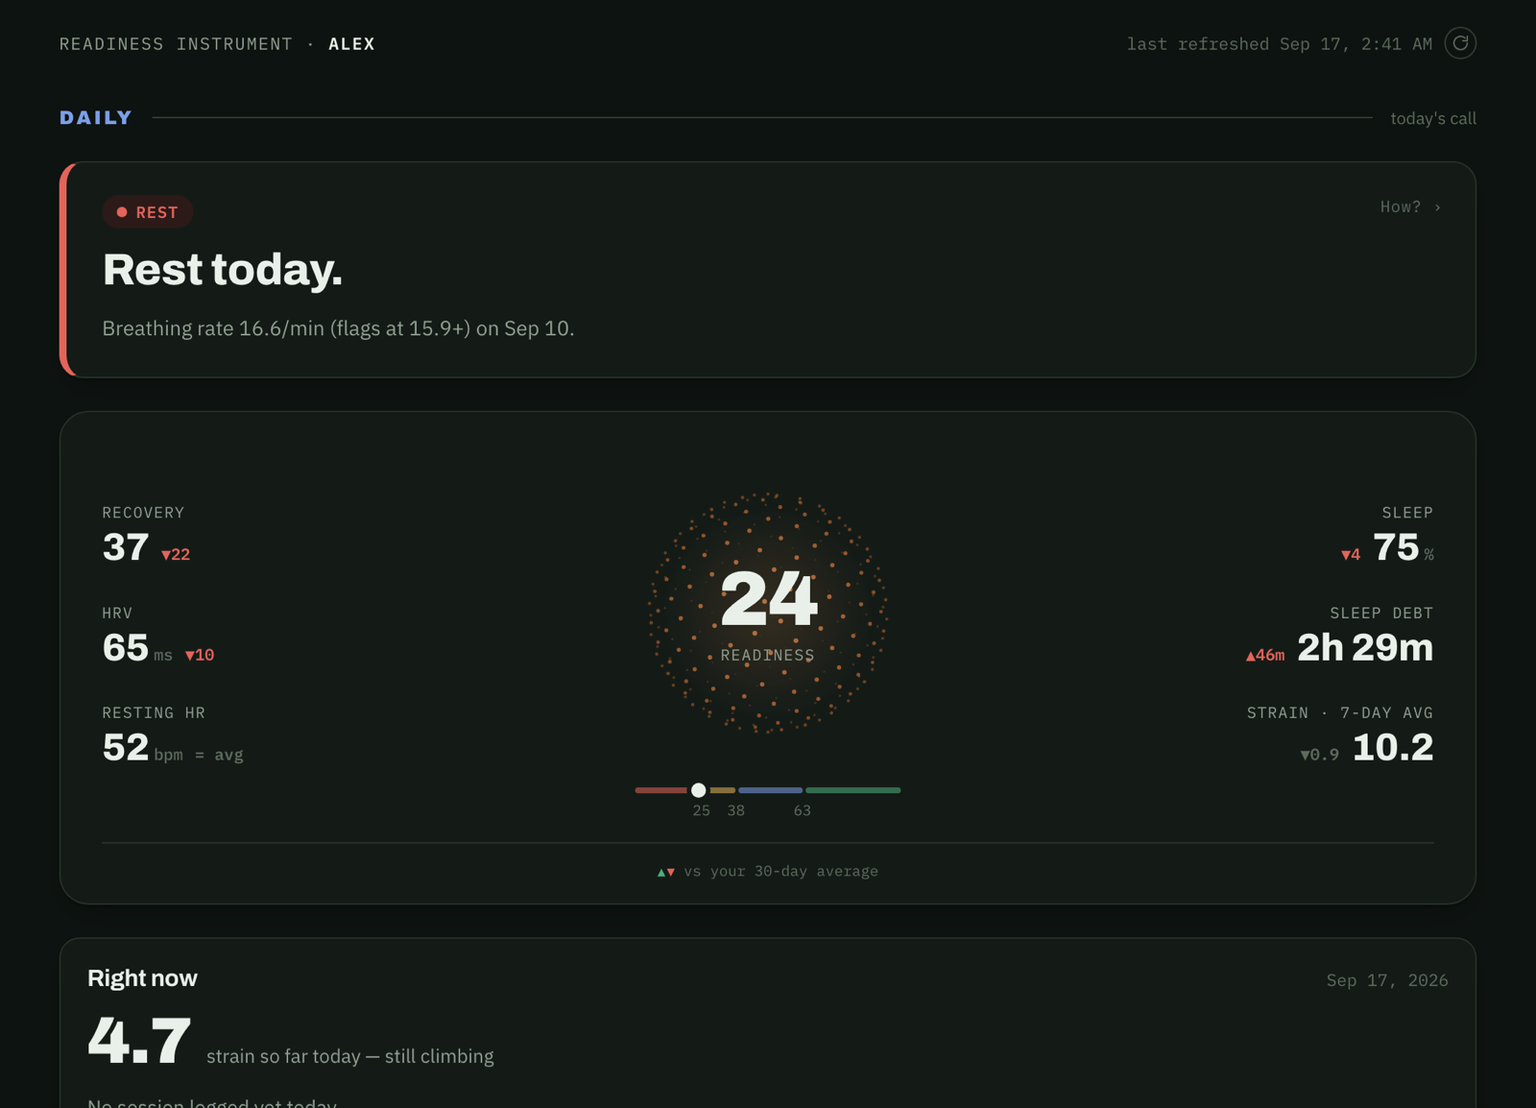
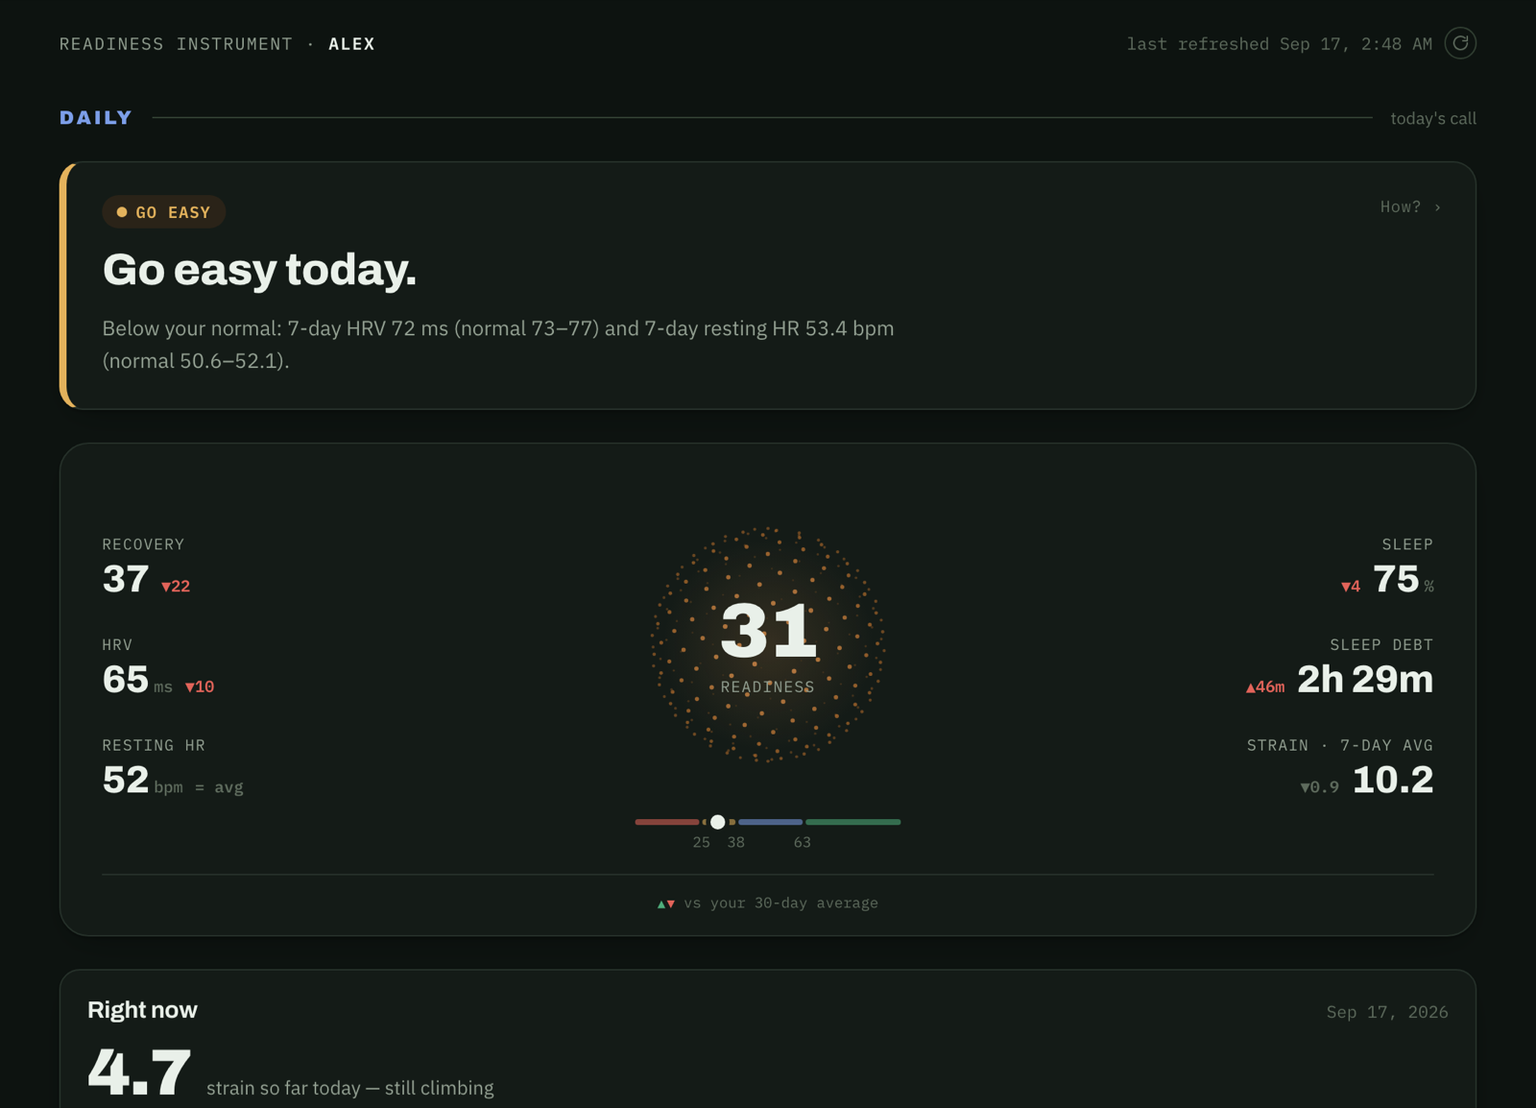
Only lower readiness for confirmed warning signs, graded by severity
One breathing-rate night sitting exactly on the 1.5 SD line dropped
readiness from 43 to 24 and would have held it there for 14 days.

- build_warning: a warning counts only if the same vital is past its line
  on 2 of the last 3 nights, or 2+ vitals are past it on the same night,
  and it's still out last night
- Graded cap: just over the line → at most 37, 1 SD further or more →
  at most 24
- One-off nights show as "Watching" in the readiness panel and the fatigue
  card, without lowering readiness; tips and sport suggestions follow the
  confirmed rule too
- 7 new tests (tests/test_warning.py); README, chat prompt, CLAUDE.md, and
  overview screenshot updated

diff --git a/dashboard_template.html b/dashboard_template.html
@@ -677,14 +677,15 @@ function percentile(vals, p){
 //   1. Body trend (build_readiness in build_dashboard.py): 7-day HRV and resting HR and
 //      3-night sleep vs your own last 60 days, equal weights, 50 = normal. Until ~5 weeks
 //      of data exist, WHOOP recovery stands in.
-//   2. Lowered (never raised) by today's context: a warning sign — HRV, resting HR or
-//      breathing rate outside normal in the last 14 days — caps it at 24; having already
-//      trained hard today, or 7+ days without rest + an unusually hard week + load ratio
-//      above 1.3 together, caps it at 37.
+//   2. Lowered (never raised) by today's context: a *confirmed* warning sign (build_warning:
+//      same vital out of range on 2 of the last 3 nights, or 2+ vitals out together, and
+//      still out last night) caps it between 37 and 24 depending on how far out it is;
+//      having already trained hard today, or 7+ days without rest + an unusually hard
+//      week + load ratio above 1.3 together, caps it at 37. A one-off night is only watched.
 //   3. Answer from the final number: 63+ Push (≥ +½ SD) · 38–62 Train · 25–37 Go easy
 //      (below −½ SD) · under 25 Rest (below −1 SD).
 const READY_BANDS = { push: 63, train: 38, easy: 25 };
-const READY_CAPS = { warning: 24, context: 37 };
+const READY_CAPS = { context: 37 };   // warning caps (37→24, graded) come from DATA.warning
 const ACTIONS = {
   push:  {label:'Push',    c:'var(--good)',     bg:'var(--good-bg)',     headline:'Ready to push.'},
   train: {label:'Train',   c:'var(--accent)',   bg:'var(--accent-soft)', headline:'Ready to train.'},
@@ -707,17 +708,17 @@ function computeReadiness(){
   const restOverdue = !!(rest && rest.days_since >= 7);
   const acwrElevated = acwrZoneLabel === 'Caution' || acwrZoneLabel === 'High risk';
   const overloadCombo = restOverdue && monotonyHighFlag && acwrElevated;
-  const fatigueFlagged = DATA.anomalies_recent.length > 0;
+  const W = DATA.warning;
+  const fatigueFlagged = !!(W && W.confirmed);
+  const sigText = x => `${x.name.charAt(0).toLowerCase() + x.name.slice(1)} ${x.value}${x.unit === 'ms' || x.unit === 'bpm' ? ' ' : ''}${x.unit} (flags at ${x.limit}${x.direction === 'low' ? ' or lower' : '+'})`;
+  const warnWhen = W ? (W.date === todayLocalISO() ? 'last night' : `on ${new Date(W.date+'T00:00:00').toLocaleDateString(undefined,{month:'short',day:'numeric'})}`) : '';
+  const watch = W && !W.confirmed ? W.signals : [];
 
   const caps = [];
   if(fatigueFlagged){
-    // name the actual signal(s) from the most recent flag, in plain units
-    const f = DATA.anomalies_recent[DATA.anomalies_recent.length-1], bits = [], has = f.hrv_low != null;
-    if(f.z_hrv <= -1.5) bits.push(`HRV ${Math.round(f.hrv)} ms${has ? ` (flags at ${f.hrv_low} or lower)` : ''}`);
-    if(f.z_rhr >= 1.5) bits.push(`resting HR ${Math.round(f.rhr)} bpm${has ? ` (flags at ${f.rhr_high}+)` : ''}`);
-    if(f.z_rr >= 1.5) bits.push(`breathing rate ${fmt1(f.rr)}/min${has ? ` (flags at ${fmt1(f.rr_high)}+)` : ''}`);
-    const when = f.date === todayLocalISO() ? 'last night' : `on ${new Date(f.date+'T00:00:00').toLocaleDateString(undefined,{month:'short',day:'numeric'})}`;
-    caps.push({key:'warning', max:READY_CAPS.warning, text:`${bits.join(' and ') || 'a vital sign out of range'} ${when}`});
+    const parts = W.signals.map(x => sigText(x) + (W.reason === 'repeated' && W.nights_out[x.name] >= 2 ? ` on ${W.nights_out[x.name]} of the last ${W.nights_checked} nights` : ''));
+    const joined = parts.join(' and ') + (W.reason === 'multiple' ? ` ${warnWhen}` : '');
+    caps.push({key:'warning', max:W.cap, text:joined});
   }
   if(alreadyTrainedHard) caps.push({key:'trained', max:READY_CAPS.context, text:`today's strain (${fmt1(snap.strain_so_far)}) is already above your 7-day average (${fmt1(DATA.avg7_strain)})`});
   if(overloadCombo) caps.push({key:'overload', max:READY_CAPS.context, text:`${rest.days_since} days without rest, an unusually hard week and load ratio above 1.3×`});
@@ -726,7 +727,7 @@ function computeReadiness(){
   const lowering = caps.filter(c => c.max < base);           // only caps that actually changed the number
 
   return { readiness, base, action: actionFor(readiness), caps, lowering, fallback: !R, strainRatio,
-           snap, snapIsToday, alreadyTrainedHard, rest, overloadCombo, fatigueFlagged };
+           snap, snapIsToday, alreadyTrainedHard, rest, overloadCombo, fatigueFlagged, watch, warnWhen, sigText };
 }
 
 function decisionWhy(calc){
@@ -784,7 +785,7 @@ function renderDecision(){
 function renderSuggestions(state, calc, alreadyTrainedHard, overloadCombo, rest){
   const sports = DATA.sport_recovery_cost.sports; // sorted ascending by delta (most costly first)
   const sEl = $('sportSuggestSignal'), sTxt = $('sportSuggestText');
-  const fatigueFlagged = DATA.anomalies_recent.length > 0;
+  const fatigueFlagged = !!(DATA.warning && DATA.warning.confirmed);
 
   if(alreadyTrainedHard && overloadCombo){
     sEl.className = 'signal warn';
@@ -821,7 +822,7 @@ function renderSuggestions(state, calc, alreadyTrainedHard, overloadCombo, rest)
   if(!overloadCombo && calc.strainRatio > 1.15) tips.push(alreadyTrainedHard
     ? `Keep tomorrow light — you've trained harder than usual this week.`
     : `You're training harder than usual this week — favor technique or mobility over volume.`);
-  if(DATA.anomalies_recent.length) tips.push(`Body signals are outside your normal range — prioritize sleep tonight.`);
+  if(DATA.warning && DATA.warning.confirmed) tips.push(`Body signals are outside your normal range — prioritize sleep tonight.`);
   if(!overloadCombo && monotonyHighFlag) tips.push(`This week's load has been unusually concentrated with few easy days — build one in soon.`);
   if(tips.length === 0) tips.push(overloadCombo ? `Prioritize sleep tonight.` : `Nothing unusual in your numbers today — a normal week, stick to your plan.`);
   const tEl = $('tipsSignal'), tTxt = $('tipsText');
@@ -1312,7 +1313,9 @@ function renderTodaySignals(){
     aEl.className = 'signal ok';
     aTxt.innerHTML = `<b>No fatigue signal.</b> HRV, resting HR and breathing rate all stayed in your normal range for the last 14 days.`;
   } else {
-    aEl.className = 'signal warn';
+    const W = DATA.warning;
+    const confirmed = !!(W && W.confirmed);
+    aEl.className = confirmed ? 'signal warn' : 'signal';
     const f = flags[flags.length-1];
     const has = f.hrv_low != null;
     const parts = [];
@@ -1320,7 +1323,9 @@ function renderTodaySignals(){
     if(f.z_rhr >= 1.5) parts.push(`resting HR <b>${Math.round(f.rhr)} bpm</b>${has?` (flags at ${f.rhr_high}+)`:''}`);
     if(f.z_rr >= 1.5) parts.push(`breathing rate <b>${fmt1(f.rr)} /min</b>${has?` (flags at ${fmt1(f.rr_high)}+)`:''}`);
     const when = f.date === todayLocalISO() ? 'today' : 'on ' + fmtDate(f.date);
-    aTxt.innerHTML = `<b>Possible fatigue signal ${when}:</b> ${parts.join(', ')}. Limits come from your last 30 nights.`;
+    aTxt.innerHTML = confirmed
+      ? `<b>Fatigue signal ${when}:</b> ${parts.join(', ')}. Confirmed over several nights, so readiness is lowered.`
+      : `<b>Watching ${when}:</b> ${parts.join(', ')}. A single night — it lowers readiness only if it repeats.`;
   }
 
   const sEl = $('sportCostSignal'), sTxt = $('sportCostText');
@@ -1698,14 +1703,13 @@ window.addEventListener('resize', ()=>{ renderExplorer(); renderStageChart(); re
 
     if(calc.lowering.length){
       out.push(section('Lowered today', ''));
-      const f = DATA.anomalies_recent.length ? DATA.anomalies_recent[DATA.anomalies_recent.length-1] : null;
       for(const cap of calc.lowering){
-        if(cap.key === 'warning' && f){
-          const when = f.date === todayLocalISO() ? '' : ` · ${new Date(f.date+'T00:00:00').toLocaleDateString(undefined,{month:'short',day:'numeric'})}`;
-          const has = f.hrv_low != null;
-          if(f.z_hrv <= -1.5) out.push(row(`HRV${when}`, `${Math.round(f.hrv)} ms`, has ? `≤${f.hrv_low}` : 'low', 'flagged'));
-          if(f.z_rhr >= 1.5) out.push(row(`Resting HR${when}`, `${Math.round(f.rhr)} bpm`, has ? `${f.rhr_high}+` : 'high', 'flagged'));
-          if(f.z_rr >= 1.5) out.push(row(`Breathing rate${when}`, `${fmt1(f.rr)}/min`, has ? `${fmt1(f.rr_high)}+` : 'high', 'flagged'));
+        if(cap.key === 'warning'){
+          const W = DATA.warning;
+          for(const x of W.signals){
+            const label = W.reason === 'repeated' ? `${x.name} · ${W.nights_out[x.name]} of ${W.nights_checked} nights` : `${x.name} · ${calc.warnWhen.replace(/^on /,'')}`;
+            out.push(row(label, `${x.value}${x.unit}`, `${x.limit}${x.direction === 'low' ? ' or less' : '+'}`, 'flagged'));
+          }
           out.push(row('Readiness at most', `${cap.max}`, '', 'current'));
         } else if(cap.key === 'trained'){
           out.push(row('Strain today', fmt1(calc.snap.strain_so_far), `avg ${fmt1(DATA.avg7_strain)}`, 'flagged'));
@@ -1720,13 +1724,19 @@ window.addEventListener('resize', ()=>{ renderExplorer(); renderStageChart(); re
       }
     }
 
+    if(calc.watch.length){
+      out.push(section('Watching', ''));
+      for(const x of calc.watch) out.push(row(`${x.name} · ${calc.warnWhen.replace(/^on /,'')}`, `${x.value}${x.unit}`, `${x.limit}${x.direction === 'low' ? ' or less' : '+'}`, ''));
+      out.push(`<div class="rp-note" style="margin-top:4px">Lowers readiness only if it repeats or another signal joins it.</div>`);
+    }
+
     out.push(section("Today's answer", ''));
     const b = READY_BANDS, cur = calc.action;
     out.push(row('Push', `${b.push}+`, '', cur === 'push' ? 'current' : ''));
     out.push(row('Train', `${b.train}–${b.push - 1}`, '', cur === 'train' ? 'current' : ''));
     out.push(row('Go easy', `${b.easy}–${b.train - 1}`, '', cur === 'easy' ? 'current' : ''));
     out.push(row('Rest', `under ${b.easy}`, '', cur === 'rest' ? 'current' : ''));
-    out.push(`<div class="rp-note">A warning sign caps readiness at ${READY_CAPS.warning}; a hard session today or an overload week caps it at ${READY_CAPS.context}.</div>`);
+    out.push(`<div class="rp-note">A confirmed warning sign caps readiness at 37 to 24 depending on how far out it is; a hard session today or an overload week caps it at ${READY_CAPS.context}.</div>`);
     $('rpRows').innerHTML = out.join('');
   }
 

diff --git a/build_dashboard.py b/build_dashboard.py
@@ -165,6 +165,80 @@ def build_anomalies(hrv_by_day, rhr_by_day, rr_by_day):
     return flags
 
 
+# ---- Warning signs (confirmed + graded) -----------------------------------------------
+# A single night brushing the 1.5 SD line is common noise. A warning only lowers readiness
+# when it's confirmed — the same signal out of range on 2 of the last 3 nights, or 2+
+# signals out on the same night — and the most recent night is still out (once nights are
+# back to normal it stops counting). Multi-night persistence mirrors how wearable illness
+# detection works (Miller et al. 2020 used night-to-night respiratory-rate changes).
+# The cap is graded by how far past the line it is: just over → at most 37 (Go easy),
+# 1 SD further or more (2.5 SD from normal) → at most 24 (Rest). Unconfirmed = "watch".
+WARN_LINE = 1.5
+WARN_NIGHTS = 3
+WARN_CAP_MILD, WARN_CAP_SEVERE = 37, 24
+
+
+def _night_signals(hrv_by_day, rhr_by_day, rr_by_day, d, history_days):
+    """Each vital for night d vs the 30 nights before it, as plain units + SD distance."""
+    i = history_days.index(d)
+    if i < 30:
+        return None
+    window = history_days[i - 30:i]
+    out = []
+    for name, by_day, direction, unit, digits in (
+            ('HRV', hrv_by_day, -1, 'ms', 0), ('Resting HR', rhr_by_day, 1, 'bpm', 0),
+            ('Breathing rate', rr_by_day, 1, '/min', 1)):
+        hist = [by_day[w] for w in window]
+        m, sd = mean(hist), pstdev(hist)
+        if sd == 0:
+            continue
+        z = direction * (by_day[d] - m) / sd            # positive = worse
+        limit = m + direction * WARN_LINE * sd
+        out.append({'name': name, 'value': round(by_day[d], digits) if digits else round(by_day[d]),
+                    'limit': round(limit, digits) if digits else round(limit), 'unit': unit,
+                    'direction': 'low' if direction < 0 else 'high',
+                    'sd_past_line': round(z - WARN_LINE, 2), 'out': z >= WARN_LINE})
+    return out
+
+
+def build_warning(hrv_by_day, rhr_by_day, rr_by_day):
+    days = sorted(set(hrv_by_day) & set(rhr_by_day) & set(rr_by_day))
+    if len(days) < 31:
+        return None
+    from datetime import date as _date
+    latest = days[-1]
+    recent = [d for d in days[-WARN_NIGHTS:]
+              if (_date.fromisoformat(latest) - _date.fromisoformat(d)).days < WARN_NIGHTS]
+    nights = []
+    for d in recent:
+        sig = _night_signals(hrv_by_day, rhr_by_day, rr_by_day, d, days)
+        if sig is not None:
+            nights.append({'date': d, 'signals': sig})
+    if not nights or nights[-1]['date'] != latest:
+        return None
+    last = nights[-1]['signals']
+    out_last = [x for x in last if x['out']]
+    repeated = [x for x in out_last
+                if sum(1 for n in nights for y in n['signals'] if y['name'] == x['name'] and y['out']) >= 2]
+    multiple = len(out_last) >= 2
+    confirmed = bool(out_last) and (bool(repeated) or multiple)
+    cap = None
+    if confirmed:
+        drivers = out_last if multiple else repeated
+        severity = min(1.0, max(x['sd_past_line'] for x in drivers))      # 0 at the line → 1 at +1 SD
+        cap = round(WARN_CAP_MILD - (WARN_CAP_MILD - WARN_CAP_SEVERE) * severity)
+    return {
+        'date': latest,
+        'confirmed': confirmed,
+        'reason': ('multiple' if multiple else 'repeated') if confirmed else None,
+        'cap': cap,
+        'signals': out_last,                                                 # out of range on the latest night
+        'nights_out': {x['name']: sum(1 for n in nights for y in n['signals'] if y['name'] == x['name'] and y['out'])
+                       for x in out_last},
+        'nights_checked': len(nights),
+    }
+
+
 # ---- Readiness -------------------------------------------------------------------
 # Method, from HRV-guided training research (Javaloyes et al. 2019; the Carrasco-Poyatos
 # et al. 2020 trial protocol, which follows Plews et al. 2012 and Kiviniemi et al. 2007;
@@ -548,6 +622,7 @@ def build_summary(d):
     anomalies = build_anomalies(hrv_by_day, rhr_by_day, rr_by_day)
     sleep_perf_by_day = {day(s['created_at']): s['score']['sleep_performance_percentage'] for s in sleep}
     readiness, readiness_series = build_readiness(hrv_by_day, rhr_by_day, sleep_perf_by_day)
+    warning = build_warning(hrv_by_day, rhr_by_day, rr_by_day)
     full['readiness'] = readiness_series
     cutoff_14d = (parse(latest_rec['created_at']) - timedelta(days=14)).date().isoformat()
     recent_anomalies = [a for a in anomalies if a['date'] >= cutoff_14d]
@@ -609,6 +684,7 @@ def build_summary(d):
         'body': d['body'],
         'full_series': full,
         'readiness': readiness,
+        'warning': warning,
         'workout_log': workout_log,
         'monthly': monthly,
         'monthly_count_with_data': months_with_data,

diff --git a/tests/test_warning.py b/tests/test_warning.py
@@ -1,0 +1,71 @@
+"""Warning signs lower readiness only when confirmed, and by how far past the line they are."""
+import random, unittest
+from datetime import date, timedelta
+from helpers import build_dashboard as bd
+
+
+def history(n=40, seed=3):
+    rng = random.Random(seed)
+    ds = [(date(2026, 1, 1) + timedelta(days=i)).isoformat() for i in range(n)]
+    hrv = {d: 80 + rng.gauss(0, 6) for d in ds}
+    rhr = {d: 55 + rng.gauss(0, 1.5) for d in ds}
+    rr = {d: 15 + rng.gauss(0, 0.3) for d in ds}
+    return ds, hrv, rhr, rr
+
+
+class WarningTest(unittest.TestCase):
+    def test_quiet_nights_no_warning_signals(self):
+        ds, h, r, b = history()
+        for d in ds[-3:]:
+            b[d] = 15.0; h[d] = 80.0; r[d] = 55.0
+        w = bd.build_warning(h, r, b)
+        self.assertFalse(w['confirmed'])
+        self.assertEqual(w['signals'], [])
+
+    def test_single_borderline_night_is_only_watched(self):
+        ds, h, r, b = history()
+        for d in ds[-3:-1]:
+            b[d] = 15.0
+        b[ds[-1]] = 15.6                       # ~2 SD, one night only
+        w = bd.build_warning(h, r, b)
+        self.assertTrue(w['signals'])
+        self.assertFalse(w['confirmed'])
+        self.assertIsNone(w['cap'])
+
+    def test_repeated_signal_is_confirmed_and_mild(self):
+        ds, h, r, b = history()
+        b[ds[-3]] = 15.0
+        b[ds[-2]] = b[ds[-1]] = 15.5           # just past the line on 2 of 3 nights
+        w = bd.build_warning(h, r, b)
+        self.assertTrue(w['confirmed'])
+        self.assertEqual(w['reason'], 'repeated')
+        self.assertTrue(24 <= w['cap'] <= 37)
+
+    def test_far_out_of_range_caps_at_rest(self):
+        ds, h, r, b = history()
+        b[ds[-2]] = b[ds[-1]] = 17.5            # many SD above normal
+        w = bd.build_warning(h, r, b)
+        self.assertEqual(w['cap'], 24)
+
+    def test_two_signals_same_night_is_confirmed(self):
+        ds, h, r, b = history()
+        h[ds[-1]] = 55.0                        # HRV well below
+        r[ds[-1]] = 60.0                        # resting HR well above
+        w = bd.build_warning(h, r, b)
+        self.assertTrue(w['confirmed'])
+        self.assertEqual(w['reason'], 'multiple')
+
+    def test_back_to_normal_stops_counting(self):
+        ds, h, r, b = history()
+        b[ds[-3]] = b[ds[-2]] = 17.0            # two bad nights…
+        b[ds[-1]] = 15.0                        # …but last night was normal
+        w = bd.build_warning(h, r, b)
+        self.assertFalse(w['confirmed'])
+
+    def test_needs_30_nights_of_history(self):
+        ds, h, r, b = history(n=20)
+        self.assertIsNone(bd.build_warning(h, r, b))
+
+
+if __name__ == "__main__":
+    unittest.main()

diff --git a/chat_server.py b/chat_server.py
@@ -55,8 +55,10 @@ Dashboard terms they may ask about:
 - Readiness = how ready they are to train today (differs from recovery). Body trend: 7-day \
 rolling ln(RMSSD) HRV and resting HR plus 3-night sleep performance, each vs the previous 60 \
 days (normal = mean ± 0.5 SD), equal weights, 50 + 25 × average (50 = normal) — this is \
-dashboard_summaries.readiness.score. The page then lowers it: at most 24 if HRV, resting HR or \
-breathing rate left their normal range (last 30 nights) in the last 14 days; at most 37 if \
+dashboard_summaries.readiness.score. The page then lowers it: a confirmed warning (dashboard_summaries.warning — same vital past \
+1.5 SD vs the last 30 nights on 2 of the last 3 nights, or 2+ vitals on the same night, and \
+still out last night) caps it at warning.cap (37 just over the line → 24 far out); a one-off \
+night is only 'watching' and does not lower it. At most 37 if \
 today's strain is already above the 7-day average, or if 7+ days without rest AND this week \
 harder than 80% of recent weeks AND load ratio above 1.3× all hold. Answer from the final \
 number: 63+ Push, 38–62 Train, 25–37 Go easy, under 25 Rest.

diff --git a/README.md b/README.md
@@ -205,8 +205,12 @@ the day's label comes straight from it:
 
 It starts from your **body trend** (below) and can only be *lowered* by today's context:
 
-- **At most 24** — a warning sign: HRV, resting HR, or breathing rate outside your normal
-  in the last 14 days.
+- **At most 37 → 24** — a *confirmed* warning sign: the same vital (HRV, resting HR, or
+  breathing rate) past its line on 2 of the last 3 nights, or 2+ vitals past it on the same
+  night, and still past it last night. Just over the line → at most 37; a full SD further
+  or more → at most 24. A one-off night is only shown as *watching* — single nights brushing
+  the line are common noise, and wearable illness detection relies on changes across
+  several nights ([Miller et al., 2020](https://pubmed.ncbi.nlm.nih.gov/33301493/)).
 - **At most 37** — you've already trained harder than your 7-day average today, *or* all
   three of 7+ days since rest, a week harder than 80% of recent weeks, and ACWR above 1.3.
 
@@ -222,7 +226,7 @@ your body's recent trend inside, above, or below your own normal?**
 | 2. Compare to *your* normal | Baseline = your rolling values over the 60 days before this week. Normal range = baseline mean ± 0.5 SD | ±0.5 SD is the "smallest worthwhile change" these trials use to choose hard vs easy days (mean ± 0.5 × SD, following Plews et al., 2012 — see [Carrasco-Poyatos et al., 2020](https://pmc.ncbi.nlm.nih.gov/articles/PMC7432021/)). Trials used a ~4-week baseline; 60 days is a steadier choice for everyday life |
 | 3. Add resting HR and sleep | Each input expressed in SD units (resting HR flipped: lower = better), capped at ±3 | Adding resting HR (and well-being) to HRV gave the largest gains in a 2025 cyclist trial ([Alfonso et al., 2025](https://pmc.ncbi.nlm.nih.gov/articles/PMC12485039/)) |
 | 4. Combine | Equal-weight average → score = 50 + 25 × average, 0–100 | No study has validated specific weights; equal weights are the robust default when none exist ([Dawes, 1979](https://www.researchgate.net/publication/232597503_The_robust_beauty_of_improper_linear_models_in_decision_making)) |
-| 5. Bands | 63+ Push (≥ +0.5 SD) · 38–62 Train · 25–37 Go easy (< −0.5 SD) · under 25 Rest (< −1 SD) | ±0.5 SD is the trials' above / within / below rule; the −1 SD Rest line and the 24 / 37 caps are design choices |
+| 5. Bands | 63+ Push (≥ +0.5 SD) · 38–62 Train · 25–37 Go easy (< −0.5 SD) · under 25 Rest (< −1 SD) | ±0.5 SD is the trials' above / within / below rule; the −1 SD Rest line, the 2-of-3-nights rule, and the 37 / 24 caps are design choices |
 
 **What it deliberately leaves out**
 - **Training load (ACWR).** Its ability to predict injury is disputed

diff --git a/CLAUDE.md b/CLAUDE.md
@@ -42,7 +42,8 @@ python3 scripts/privacy_scan.py [--staged]          # must be clean before any p
 - **Nothing automatic.** No timers/auto-refresh; data refreshes only via the button.
 - **Readiness is the answer.** One number (how ready to train today) → Push 63+ · Train 38–62 ·
   Go easy 25–37 · Rest <25 (`READY_BANDS`). Context only *lowers* it via caps (`READY_CAPS`: warning
-  sign ≤24; trained hard today / overload week ≤37) — never an "override" or a second verdict label.
+  sign must be *confirmed* by `build_warning` — 2 of last 3 nights or 2+ vitals, still out last night — and caps
+  37→24 graded; one-off nights are only "watching"; trained hard today / overload week ≤37) — never an "override" or a second verdict label.
   One explanation panel (orb or How? ›).
 - **Readiness ≠ recovery.** Readiness (`build_readiness` in build_dashboard.py) = 7-day ln-RMSSD
   HRV + 7-day resting HR + 3-night sleep, each vs a 60-day personal baseline (±0.5 SD SWC), equal
